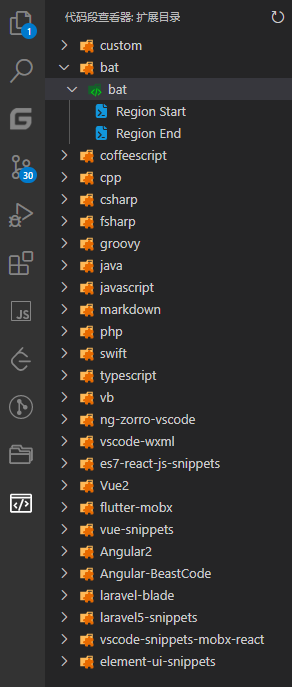
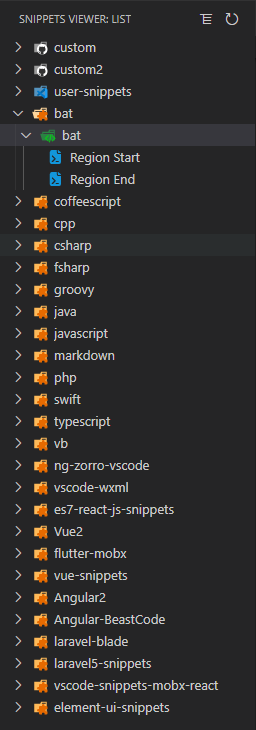
docs: update README.md

Changed region(s): [[0.0, 0.0, 0.9062, 0.9782], [0.875, 0.0, 0.9688, 0.0306], [0.7812, 0.0, 0.8125, 0.0306]]

diff --git a/README.md b/README.md
@@ -4,19 +4,39 @@ Snippets Viewer for Visual Studio Code
 
 ## Auto Loading Snippets From Expansion
 You can easily view all extended code snippets from the sidebar<br/>
-![list](img/doc1.png)
+
+**GroupByPlugins**
+
+![list1](img/doc1.png)
+
+**GroupByLanguage**
+
+![list2](img/doc2.png)
+
 ## Usage
 ### Insert Snippets
 Click code snippet
-### Refresh List
+### Change GroupByType
 Click the refresh button in the upper right corner
+### Refresh List
+Click the 'Group By xxx' button in the upper right corner<br/>
+Update `User Settings` to config
+
+#### Disable/Enable Custom Snippets
+Only support for custom snippets
+
+![disableSnippets](./img/disableSnippets.gif)
 ## Options
 The following Visual Studio Code setting is available for the Snippets-Viewer. This can be set in `User Settings` or `Workspace Settings`.
 
 ```javascript
 {
     // custom snippet folder url
-    "SnippetViewer.customUrl":"E:\\snippets"
+    "SnippetViewer.customUrl":"E:\\snippets",
+    // groupByType default:'plugins'
+    "SnippetViewer.groupByType":"plugins"
+    // control the visibility of the 'targetToFile' button default:false
+    "SnippetViewer.showTargetCodeBtn":false
 }
 ```
 #### Custom Snippets
@@ -42,3 +62,4 @@ config.json template
   }
 ]
 ```
+
